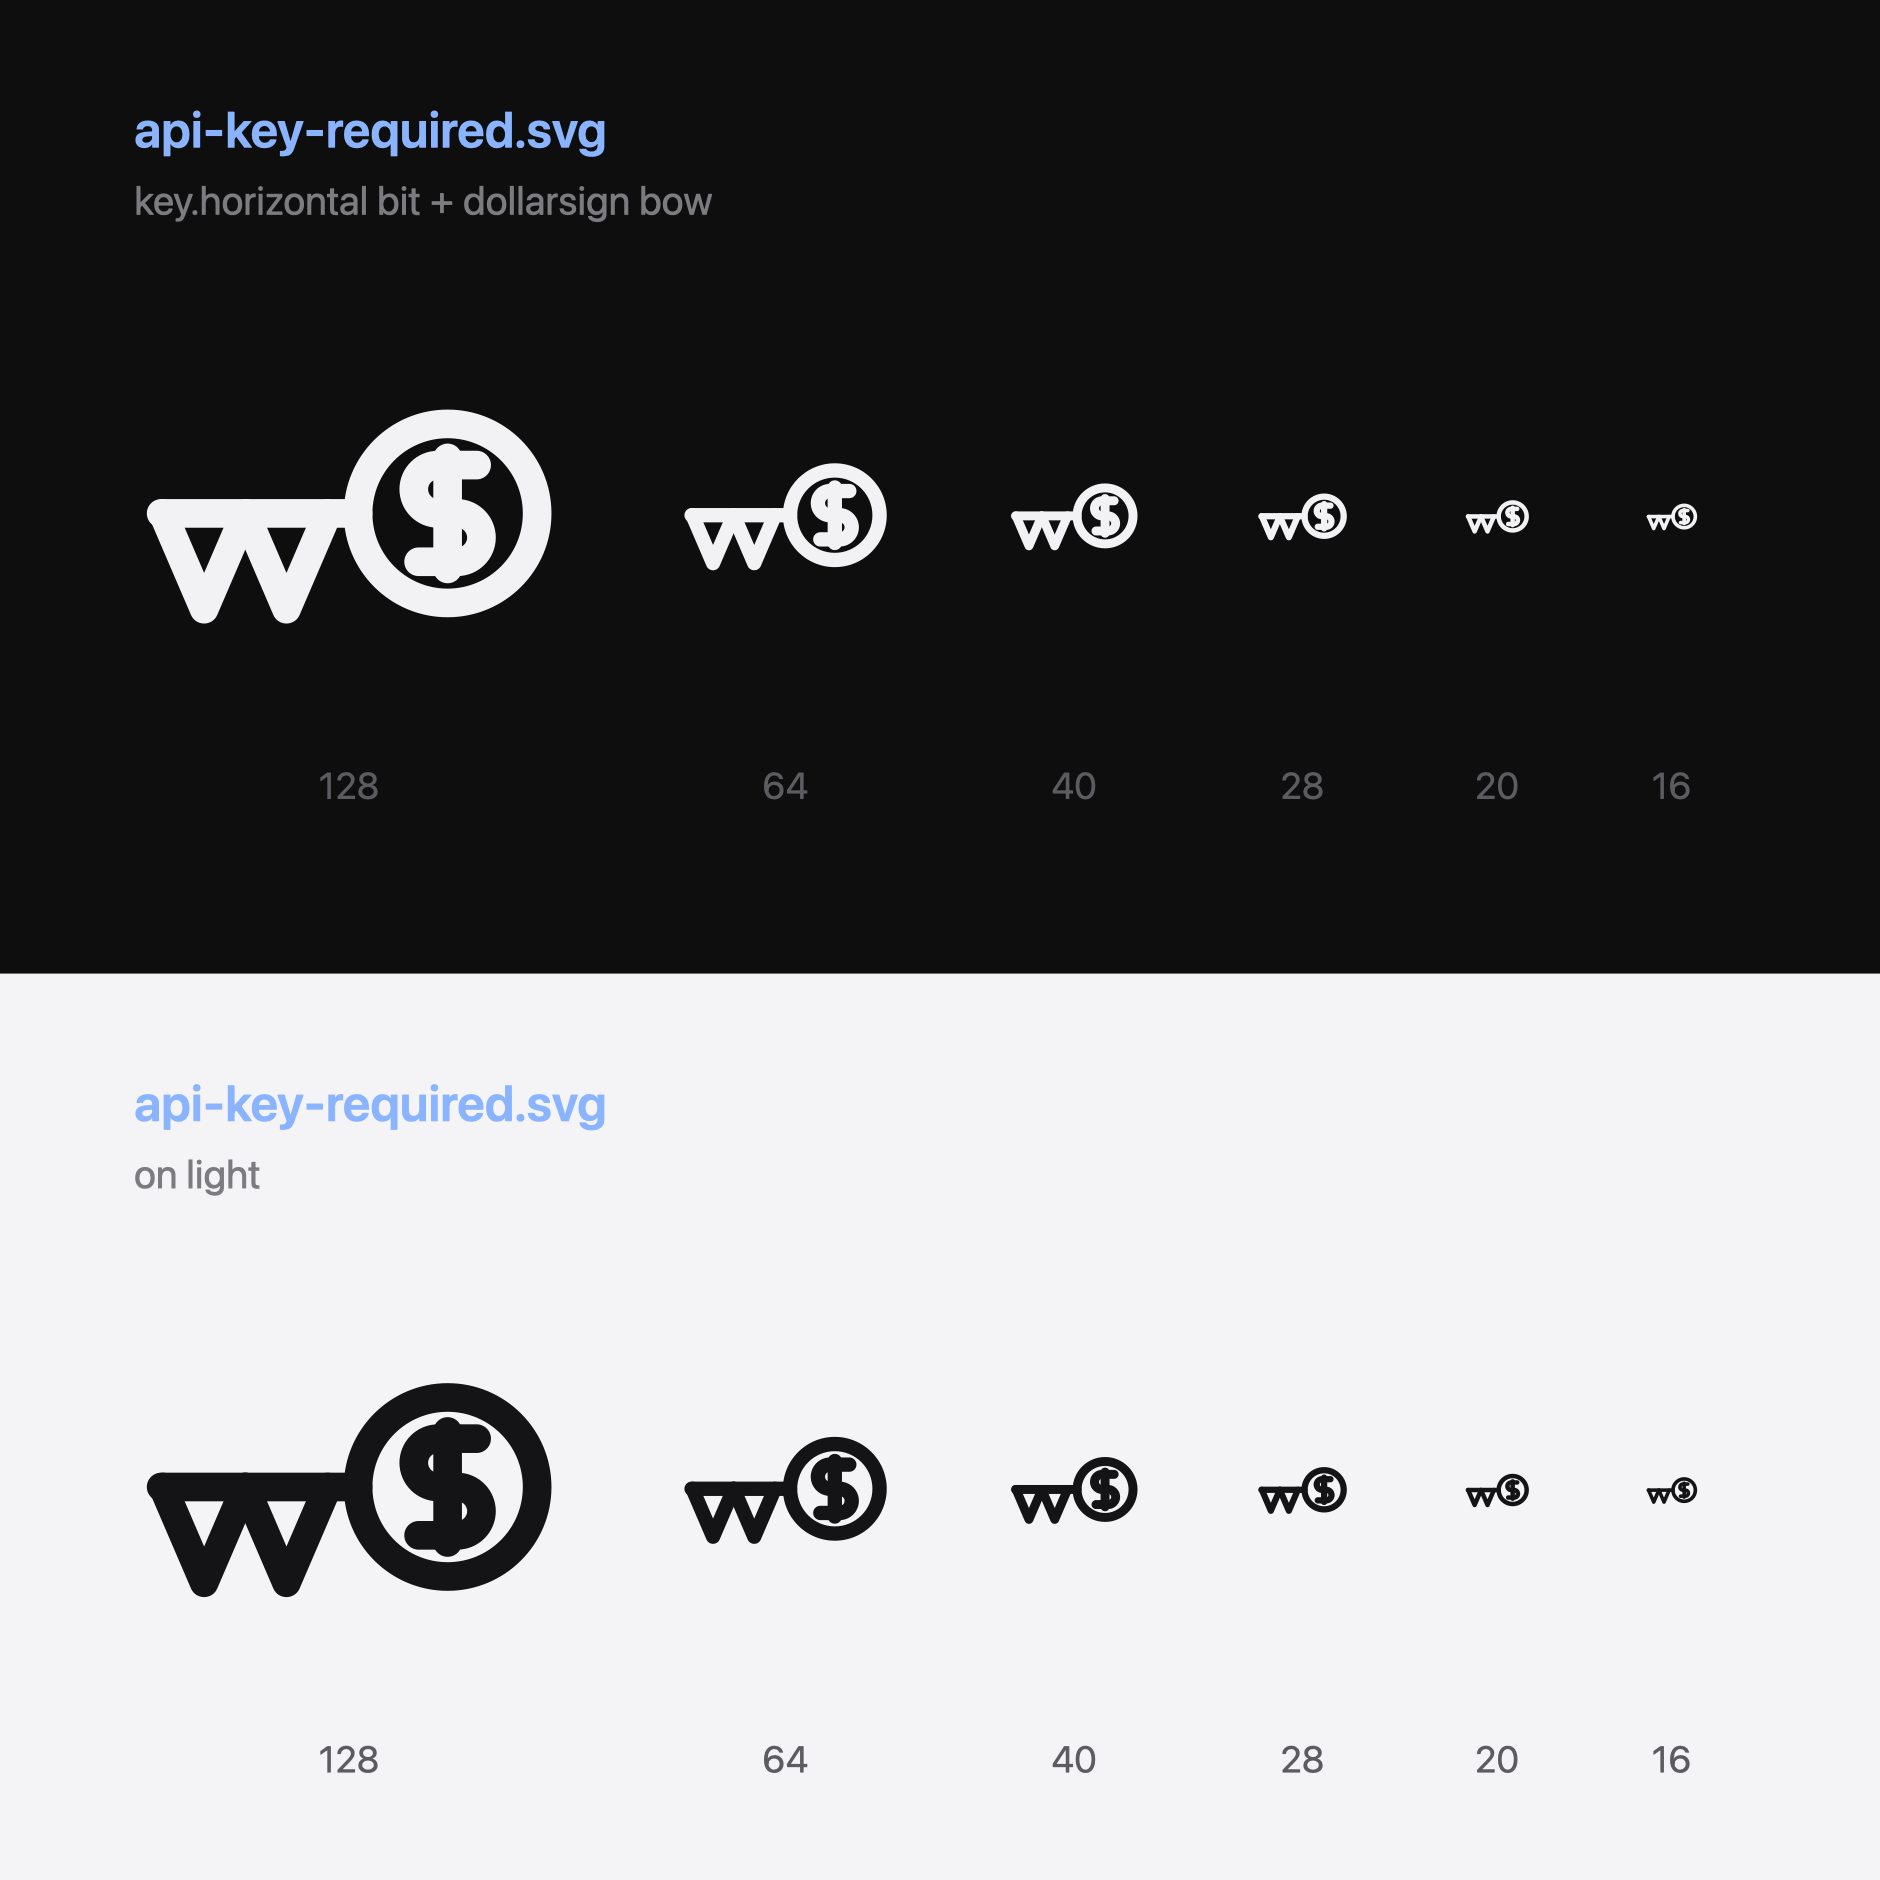
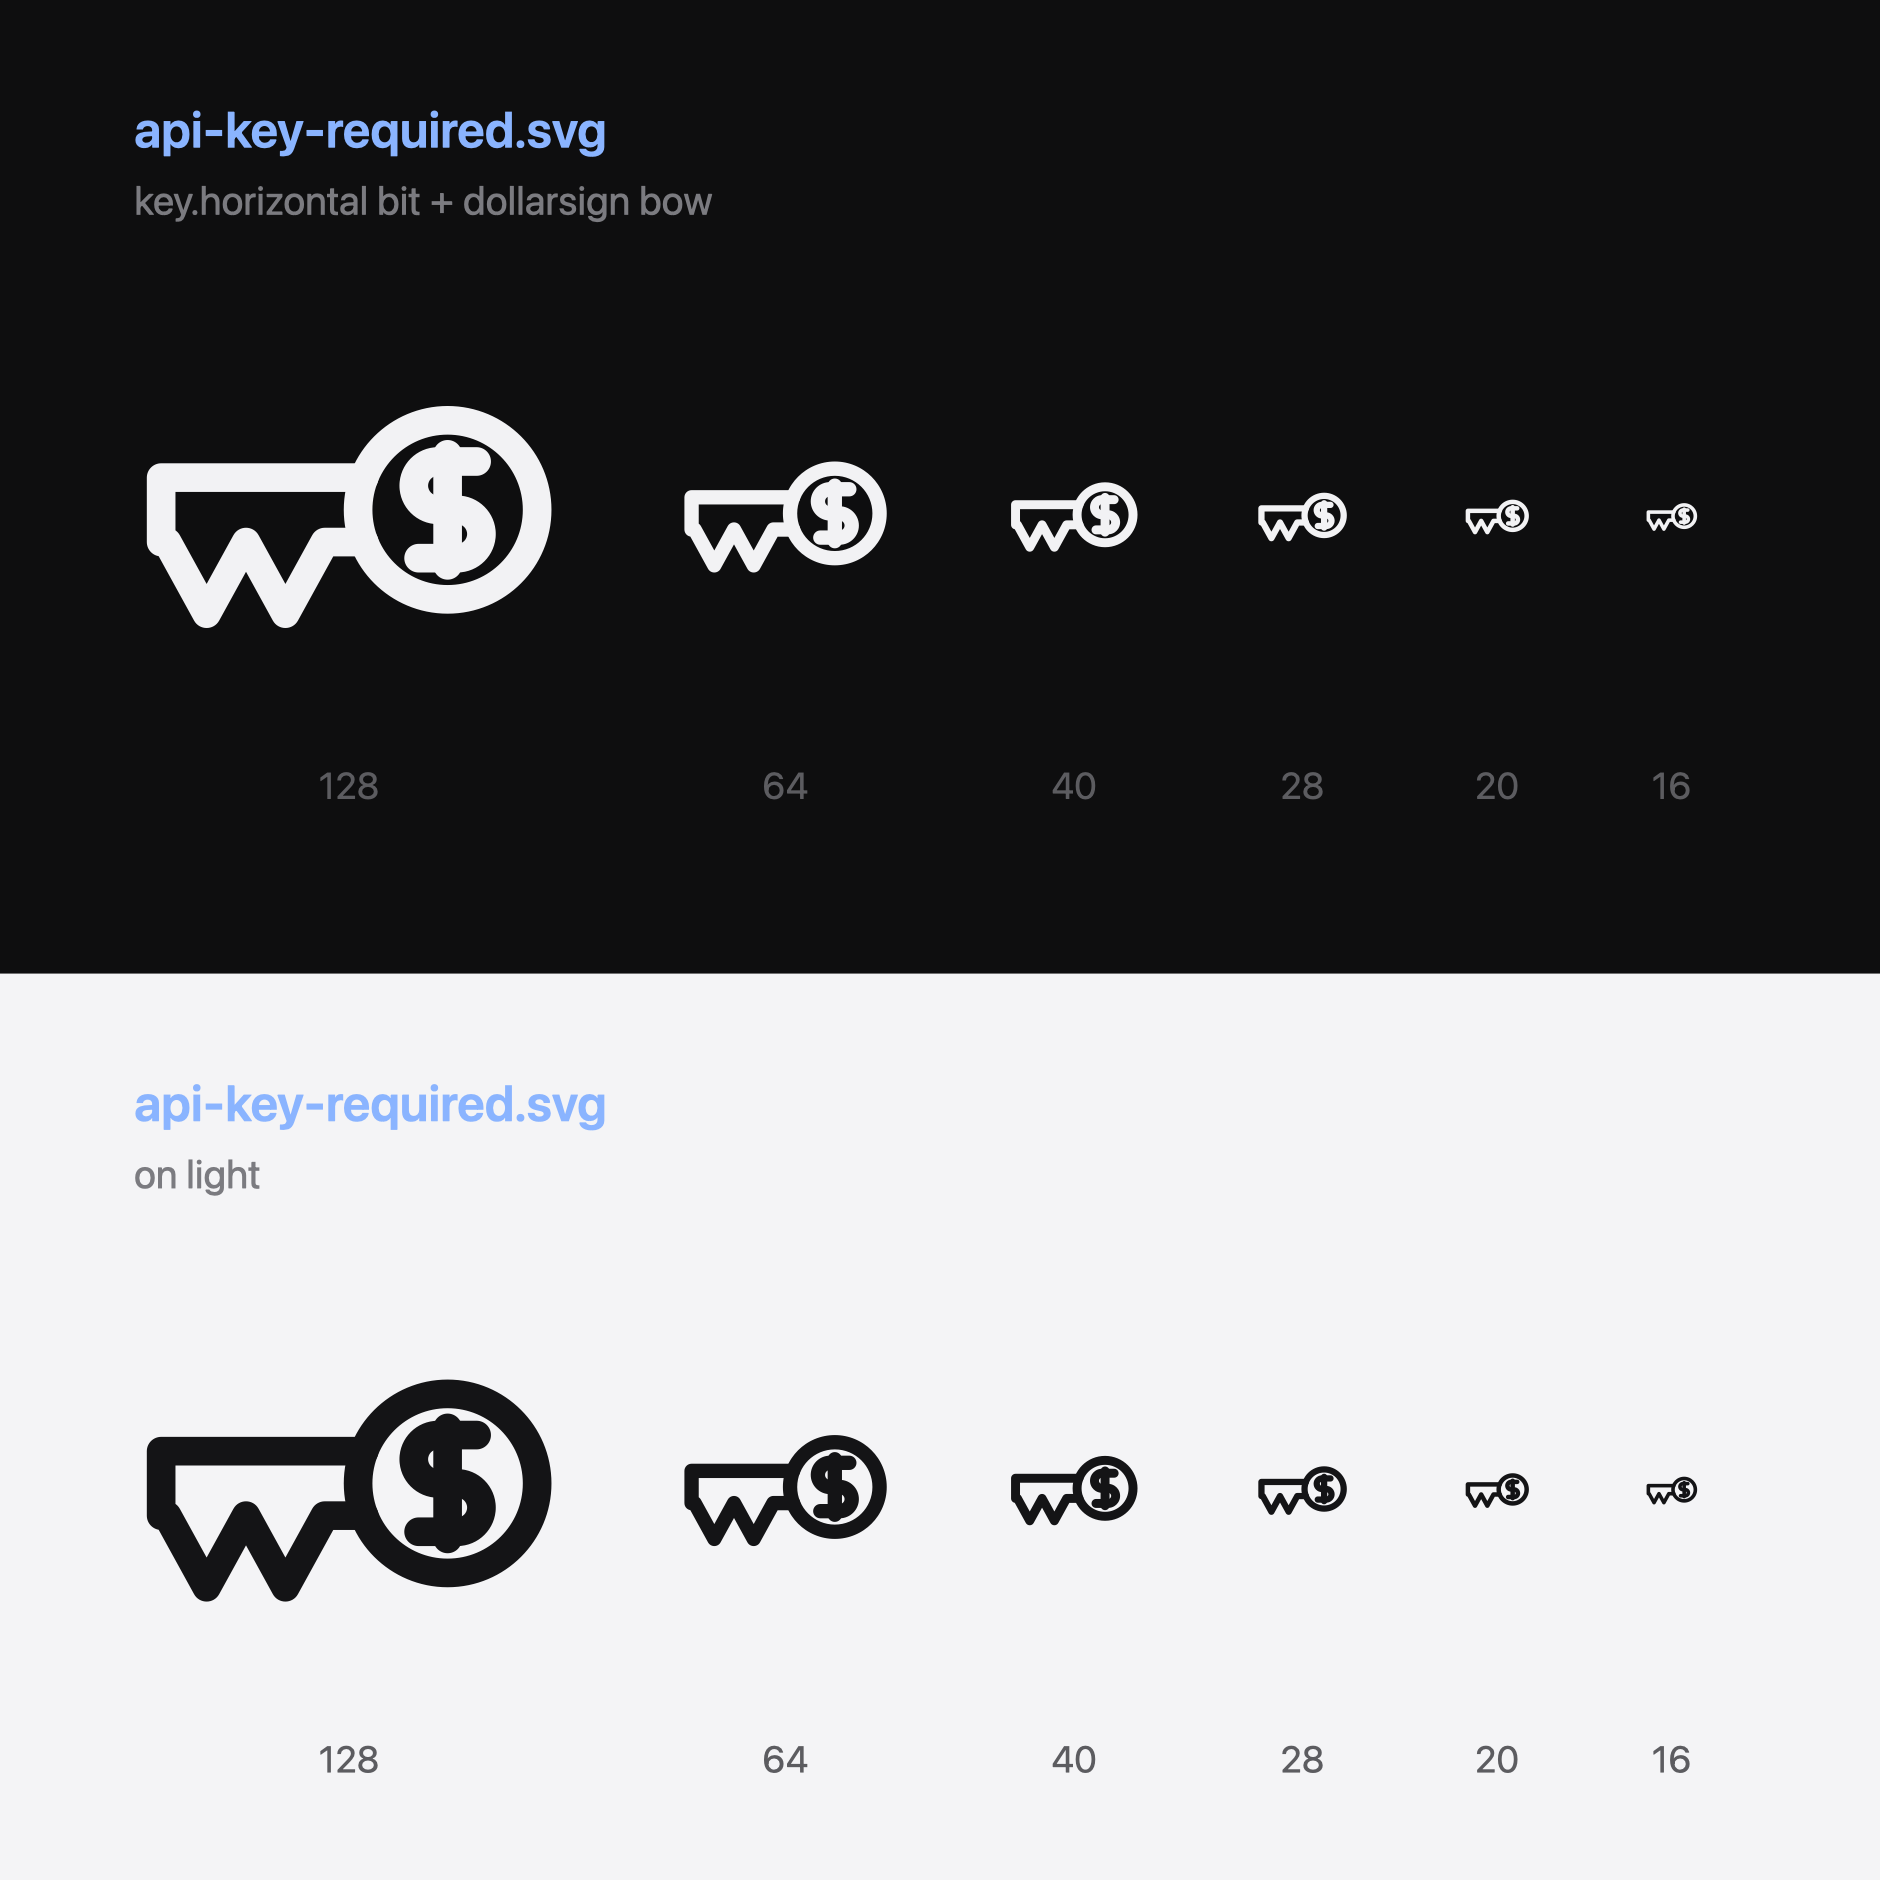
design(assets): rectangle-outline shaft for the API-key mark; drop broken PNGs
The blade is now one continuous outline — a 3.6-tall rectangle from the tip to
the bow with the two V teeth cut into its lower edge — rather than a centreline
stroke with teeth hanging off it. Reads as a single key bit instead of two
stacked shapes. Both horizontal edges terminate where y = 11.6 +/- 1.8 meets the
r=5 circle, so they join the ring cleanly; that intersection is derived from the
bar height and bow radius and must be recomputed if either changes.

Also removes the png/ export set the previous commit shipped. It was generated
with `qlmanage -t`, which flattens onto an opaque WHITE background: all six
white renders were blank white squares (one unique colour across the image) and
the six black ones were opaque, not the transparent renders the README claimed.
The failure is silent — correct dimensions, `hasAlpha: yes`, and indistinguishable
from a good export in any preview with a white backdrop. Regenerating needs a
rasteriser that honours transparency (rsvg-convert / inkscape / cairosvg); none
is installed here, so the SVG stands alone until one is. It was always the
canonical asset — currentColor is something no PNG can carry.

diff --git a/design-assets/api-key-required/README.md b/design-assets/api-key-required/README.md
@@ -16,29 +16,40 @@ Design constraints (same as the other monoline sets here):
 | Concept | File |
 | --- | --- |
 | The mark | `api-key-required.svg` |
-| Raster exports | `png/api-key-required-{white,black}-{32,64,128,256,512,1024}.png` |
 | Size/contrast contact sheet | `preview.png` |
 
-PNGs are transparent-background renders. Prefer the SVG in-app so the stroke inherits the
-theme colour; the PNGs are for docs, decks and store artwork.
+**There are deliberately no PNG exports.** An earlier revision shipped a
+`png/{white,black}-{32…1024}` set generated with `qlmanage -t`; it was wrong in both
+tones and has been removed. `qlmanage` flattens SVGs onto an opaque WHITE background, so
+the white renders were blank white squares (verified: one unique colour across the whole
+image) and the black ones were opaque rather than transparent. The failure is silent —
+the files are the right dimensions, report `hasAlpha: yes`, and a blank white PNG looks
+identical to a correct one in any preview with a white backdrop.
+
+Regenerating them needs a real SVG rasteriser that honours transparency (`rsvg-convert`,
+`inkscape`, `cairosvg`, or ImageMagick with librsvg) — none of which is installed here.
+`qlmanage` is not a substitute. Until then use the SVG, which is the canonical asset
+anyway: it inherits the theme colour through `currentColor`, which no PNG can do.
 
 ## Geometry notes
 
 The three parts are mutually constrained — none can be resized on its own.
 
-- **Bow**: `r=5` circle at `(17.5, 11.8)`. This is the floor, not a preference. The
+- **Bow**: `r=5` circle at `(17.5, 11.6)`. This is the floor, not a preference. The
   dollar inside needs `~1.0` of counter between its S-rails to stay readable, which fixes
   the S's height, and the S's outer corners then need `r>=5` to clear the ring. Below that
   the dollar closes into a blob (verified — it is unreadable at every size, not just small
   ones).
-- **Dollar**: concentric with the bow, scaled to `0.9`. Bar `y 8.7→14.9`, S-rails at
-  `y = 9.1 / 11.8 / 14.5`, arc `r=1.35`. Leaves `1.1` of counter and `0.3` of clearance to
+- **Dollar**: concentric with the bow, scaled to `0.9`. Bar `y 8.5→14.7`, S-rails at
+  `y = 8.9 / 11.6 / 14.3`, arc `r=1.35`. Leaves `1.1` of counter and `0.3` of clearance to
   the ring.
-- **Blade**: shaft `x 12.5→1.5` at `y=11.8`, with two V-notched teeth cut into the
-  underside (`5.35` deep, `2.3` run per arm, spanning `x 1.6→10.8`). Two things keep the
-  teeth reading as outlines rather than solid wedges: the notch counter is `~2.6` (below
-  ~0.9 the arms merge into a filled triangle), and the shaft stroke stays — drop it and
-  the zigzag alone reads as a lowercase "w".
+- **Blade**: one continuous outline, not a centreline. A `3.6`-tall rectangle from the tip
+  at `x=1.5` to the bow, with two V teeth (`4.0` deep, `2.2` run per arm) cut into its
+  lower edge. Both horizontal edges terminate at `x=12.84`, where `y = 11.6 ± 1.8` meets
+  the `r=5` circle — recompute that intersection if the bar height or bow radius ever
+  changes, or the edges will stop short of the ring or overshoot into it. The notch
+  counter is `~2.3`; below ~0.9 the arms merge and the teeth render as filled triangles
+  instead of outlines.
 
 **The blade is at its maximum length.** Bow diameter (10, fixed by the dollar) plus blade
 plus padding has to fit 24 units, which caps the blade near 11. Growing it further means
@@ -51,17 +62,7 @@ slightly larger than its neighbours.
 
 ## Legibility
 
-The key silhouette holds down to 16px. The dollar reads to ~40px; below that the bow goes
-to a plain coin, so use a key or `$` glyph on its own at list-row sizes.
-
-To regenerate the PNGs (macOS, no extra tooling):
-
-```
-for tone in white black; do
-  sed 's|stroke="currentColor"|stroke="'"$tone"'"|' api-key-required.svg > /tmp/ak-$tone.svg
-  for s in 32 64 128 256 512 1024; do
-    qlmanage -t -s $s -o /tmp/ak-out /tmp/ak-$tone.svg
-    mv /tmp/ak-out/ak-$tone.svg.png png/api-key-required-$tone-$s.png
-  done
-done
-```
+The key silhouette holds down to 16px. Two things go before that: the shaft rectangle's
+interior (`2.0` clear) closes up below ~36px and the blade reads as a solid wedge, and the
+dollar stops reading around ~40px, leaving the bow as a plain coin. Use a key or `$` glyph
+on its own at list-row sizes.
